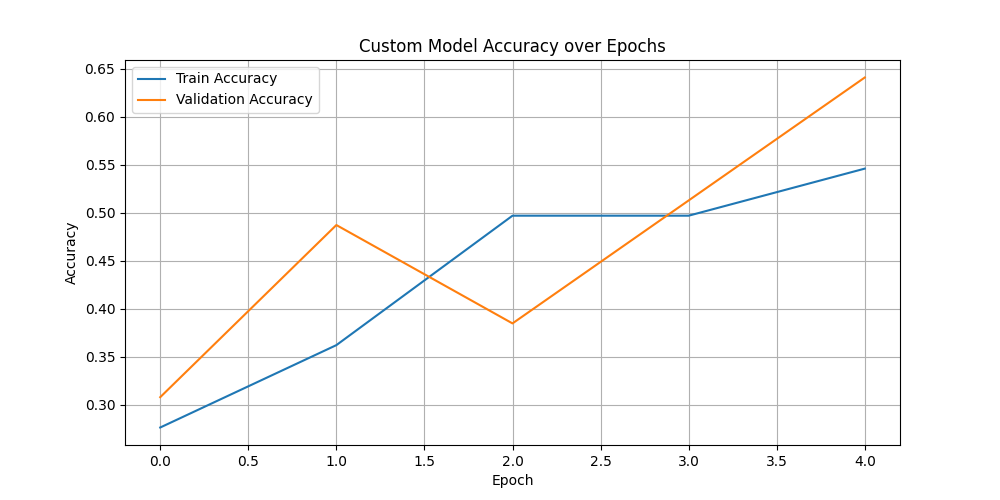
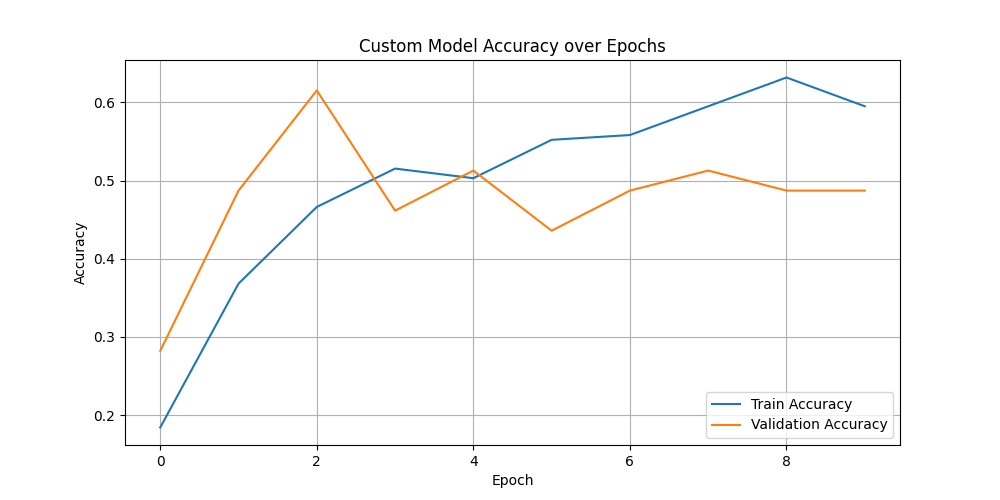
Updated model accuracy images and added summary.py

diff --git a/scripts/train-inception.py b/scripts/train-inception.py
@@ -11,7 +11,7 @@ import matplotlib.pyplot as plt
 # Image settings
 img_size = (299, 299)
 batch_size = 16
-epochs = 5
+epochs = 10
 num_classes = 4
 
 # Create data generators with augmentation
@@ -19,8 +19,13 @@ datagen = ImageDataGenerator(
     rescale=1./255,
     validation_split=0.2,
     rotation_range=20,
-    zoom_range=0.2,
-    horizontal_flip=True
+    zoom_range=.2,
+    brightness_range = [0.3, 1.5],
+    width_shift_range=0.1,
+    height_shift_range=0.1,
+    shear_range=0.1,
+    horizontal_flip=True,
+    fill_mode='nearest' 
 )
 
 train_gen = datagen.flow_from_directory(
@@ -65,7 +70,7 @@ model.save('models/InceptionV3/inception_model.keras')
 plt.figure(figsize=(10, 5))
 plt.plot(history.history['accuracy'], label='Train Accuracy')
 plt.plot(history.history['val_accuracy'], label='Validation Accuracy')
-plt.title('Model Accuracy over Epochs')
+plt.title('Inception Model Accuracy over Epochs')
 plt.xlabel('Epoch')
 plt.ylabel('Accuracy')
 plt.legend()
@@ -77,7 +82,7 @@ plt.show()
 plt.figure(figsize=(10, 5))
 plt.plot(history.history['loss'], label='Train Loss')
 plt.plot(history.history['val_loss'], label='Validation Loss')
-plt.title('Model Loss over Epochs')
+plt.title('Inception Model Loss over Epochs')
 plt.xlabel('Epoch')
 plt.ylabel('Loss')
 plt.legend()

diff --git a/scripts/summary.py b/scripts/summary.py
@@ -1,0 +1,15 @@
+import tensorflow as tf
+import numpy as np
+
+# Path to your best trained model
+model_path = 'models/MobileNetV2/mobilenet_model_ft.keras' # Or your desired model path
+
+# Load the model
+try:
+    model = tf.keras.models.load_model(model_path)
+    print(f"Successfully loaded model from {model_path}")
+except Exception as e:
+    print(f"Error loading model: {e}")
+    # Handle the error, e.g., exit or use a fallback
+
+model.summary()

diff --git a/scripts/train-custom.py b/scripts/train-custom.py
@@ -85,7 +85,7 @@ plt.show()
 plt.figure(figsize=(10, 5))
 plt.plot(history.history['loss'], label='Train Loss')
 plt.plot(history.history['val_loss'], label='Validation Loss')
-plt.title('Custom Loss over Epochs')
+plt.title('Custom Model Loss over Epochs')
 plt.xlabel('Epoch')
 plt.ylabel('Loss')
 plt.legend()

diff --git a/scripts/train-mobilenet.py b/scripts/train-mobilenet.py
@@ -12,7 +12,7 @@ from explore_data import base_path
 import matplotlib.pyplot as plt
 
 # Image settings
-img_size = (224, 224)  # MobileNetV2 için önerilen boyut
+img_size = (224, 224)
 batch_size = 8
 epochs = 10
 num_classes = 4
